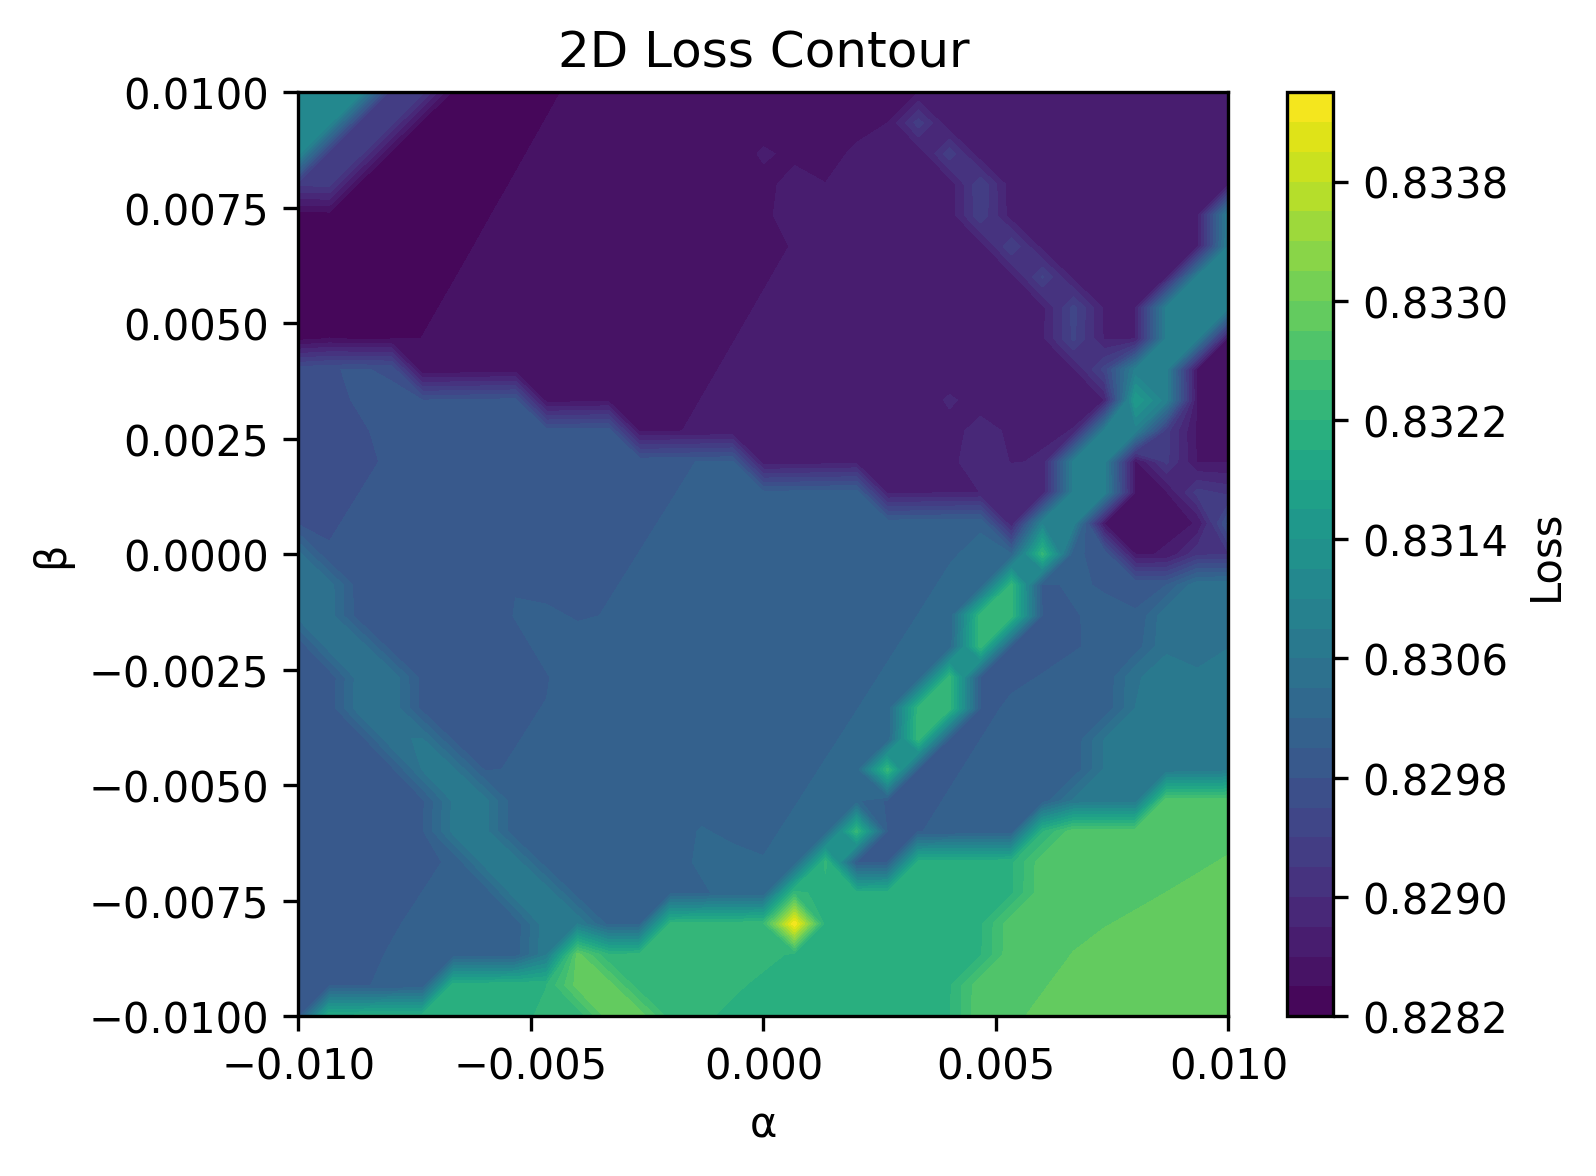
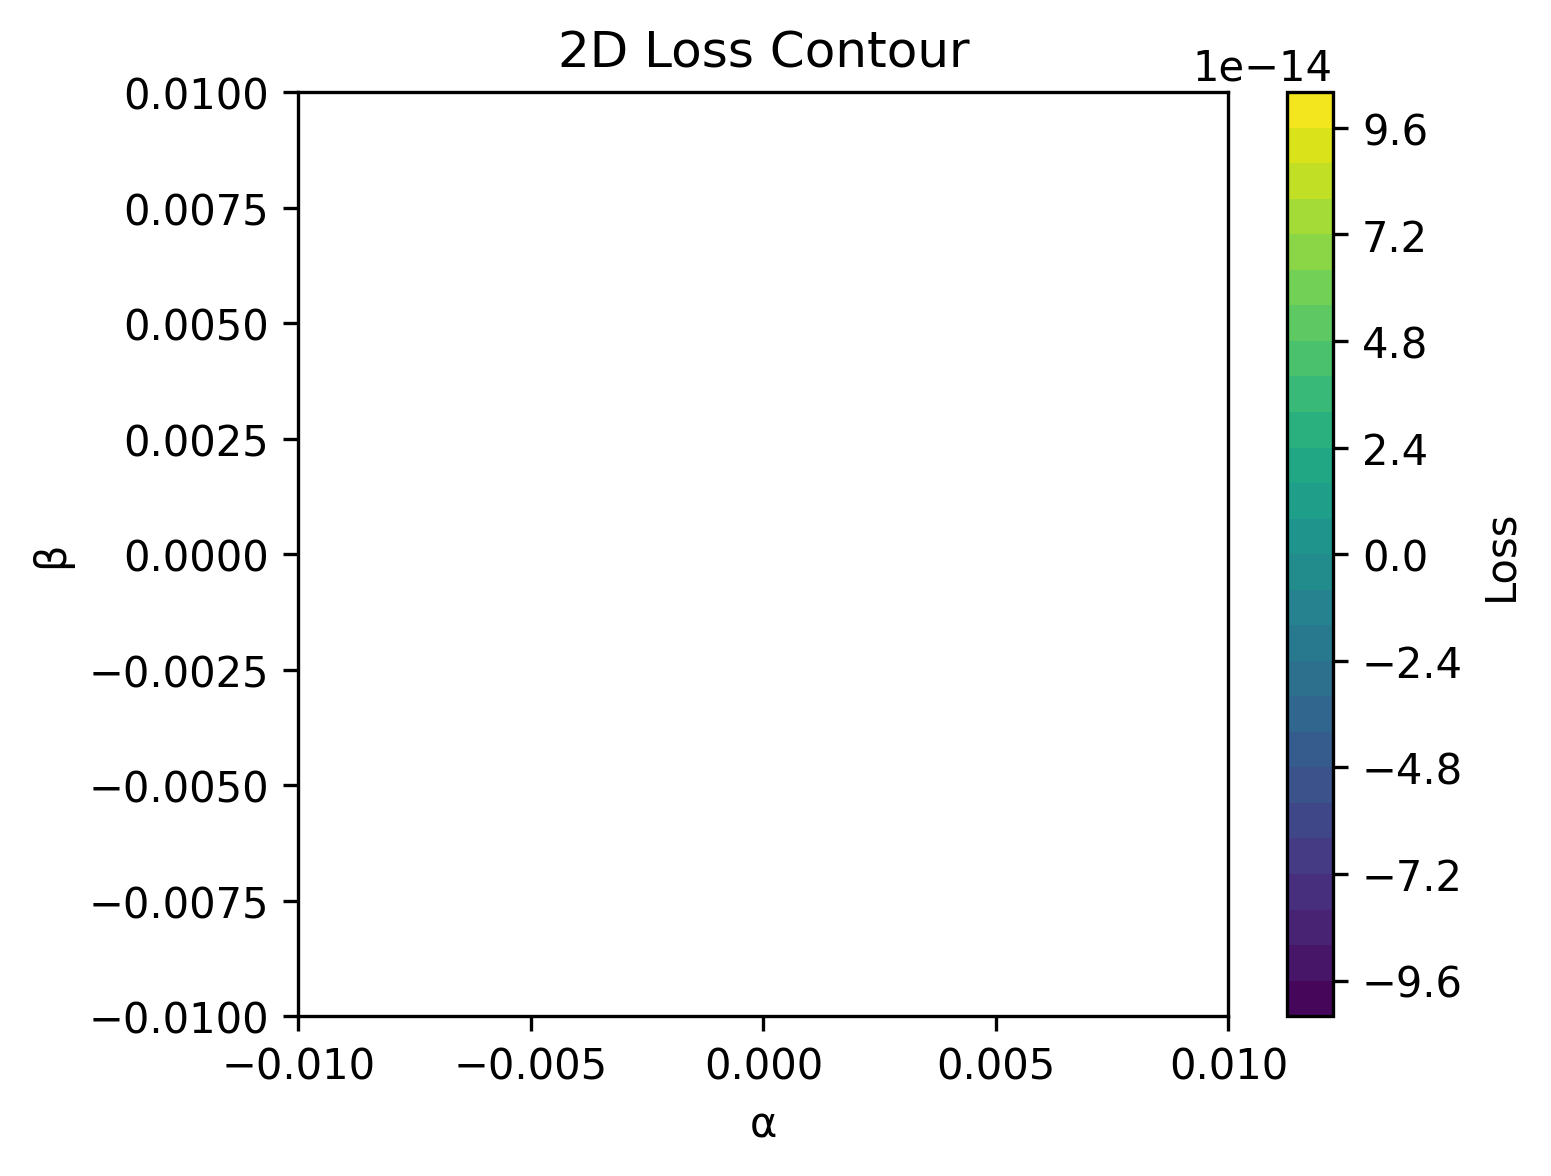
Recent changes

diff --git a/nmnist_dataset.py b/nmnist_dataset.py
@@ -29,16 +29,17 @@ def preprocess_spike_events(spike_events, nb_steps, nb_units, time_step):
     # Iterate through all events simultaneously
     for x, y, t, p in zip(x_coords, y_coords, timestamps, polarities):
         time_bin = int(t * time_step)  # Convert time to timestep
+        neuron_id = x + y * int(np.sqrt(nb_units))  # Flatten 2D coordinates into 1D neuron ID
+
         # if p == 1:  # On spikes only
-            time_bin = int(t * time_step)  # Convert time to timestep
-            if time_bin < nb_steps:
-                neuron_id = x + y * int(np.sqrt(nb_units))  # Flatten 2D coordinates into 1D neuron ID
-                spike_train[time_bin, neuron_id] += 1
+        # time_bin = int(t * time_step)  # Convert time to timestep
+        if time_bin < nb_steps and neuron_id < nb_units:
+            spike_train[time_bin, neuron_id] += 1
 
     return torch.tensor(spike_train, dtype=torch.float32)
 
 
-def data_split_nmnist(config):
+def data_split_nmnist(config, device=None, dim_manifold=None):
     train_limit = 200
     test_limit = train_limit
 

diff --git a/run_model.py b/run_model.py
@@ -7,7 +7,7 @@ import numpy as np
 import os
 import pickle
 
-# from nmnist_dataset import data_split_nmnist
+from nmnist_dataset import data_split_nmnist
 from randman_dataset import data_split_randman
 from shd_dataset import data_split_shd
 
@@ -23,6 +23,7 @@ models = [
 data_loaders = {
     "randman": data_split_randman,
     "shd": data_split_shd,
+    "nmnist": data_split_nmnist,
 }
 
 
@@ -50,9 +51,9 @@ def main():
     with open(f"{data}_config.json", "r") as f:
         data_config = json.load(f)
     if num_classes != None:
-        data_config["num_classes"] = num_classes
+        data_config["nb_inputs"] = num_classes
     else:
-        num_classes = data_config["num_classes"]
+        num_classes = data_config["nb_inputs"]
 
     # Select device
     if torch.cuda.is_available():
